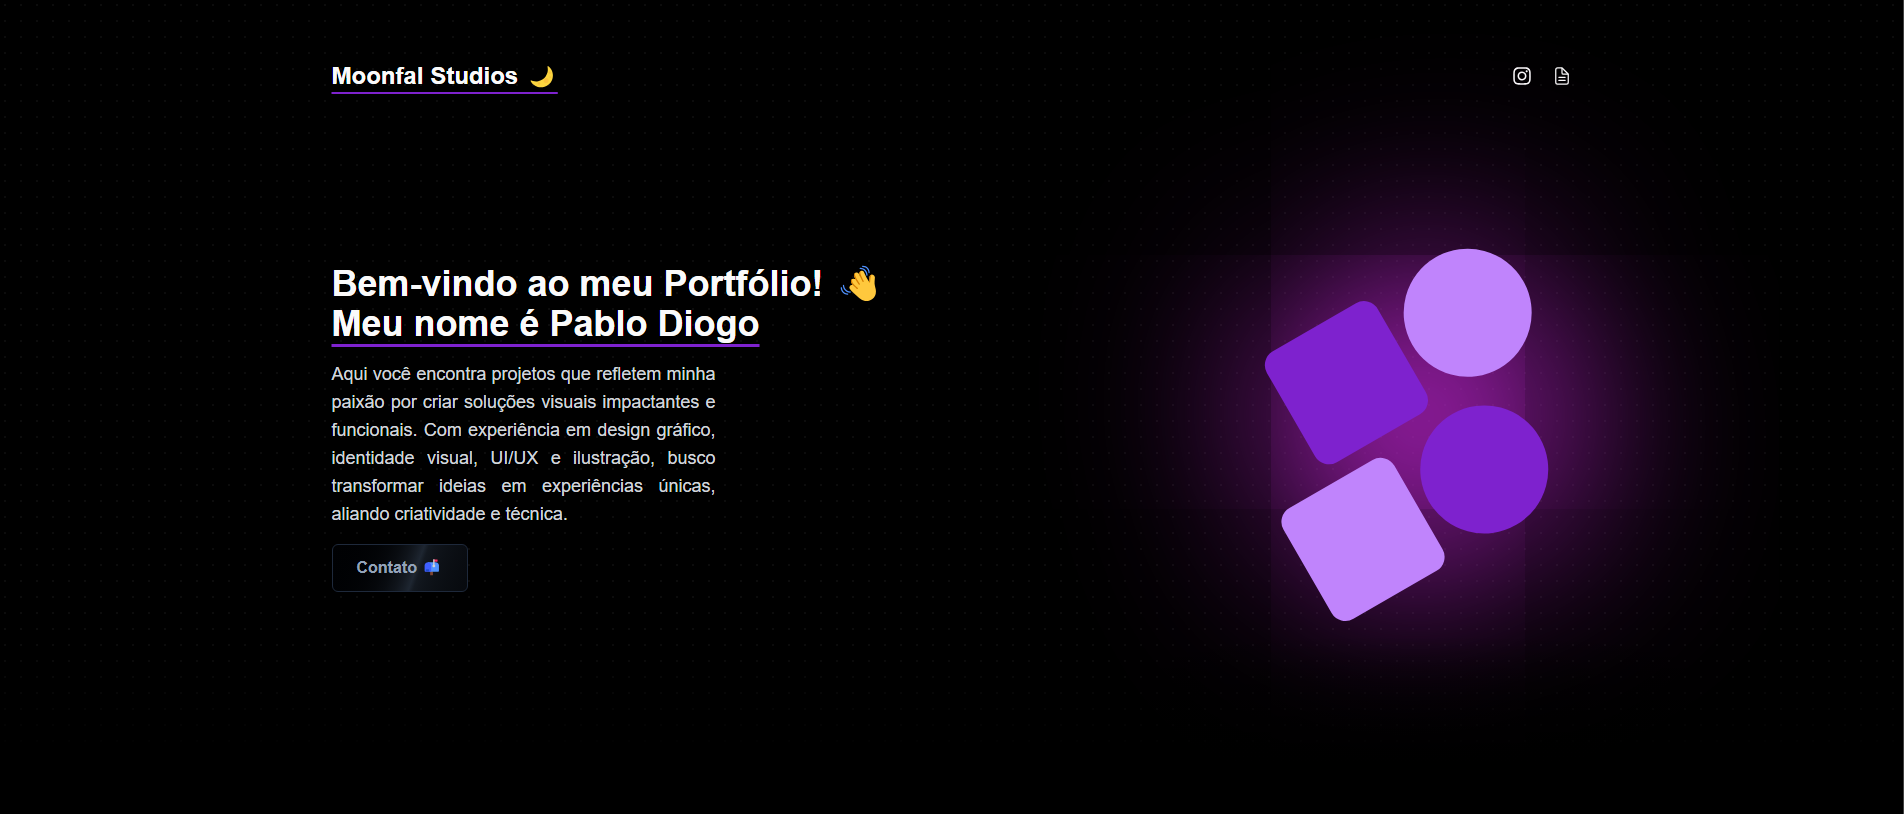
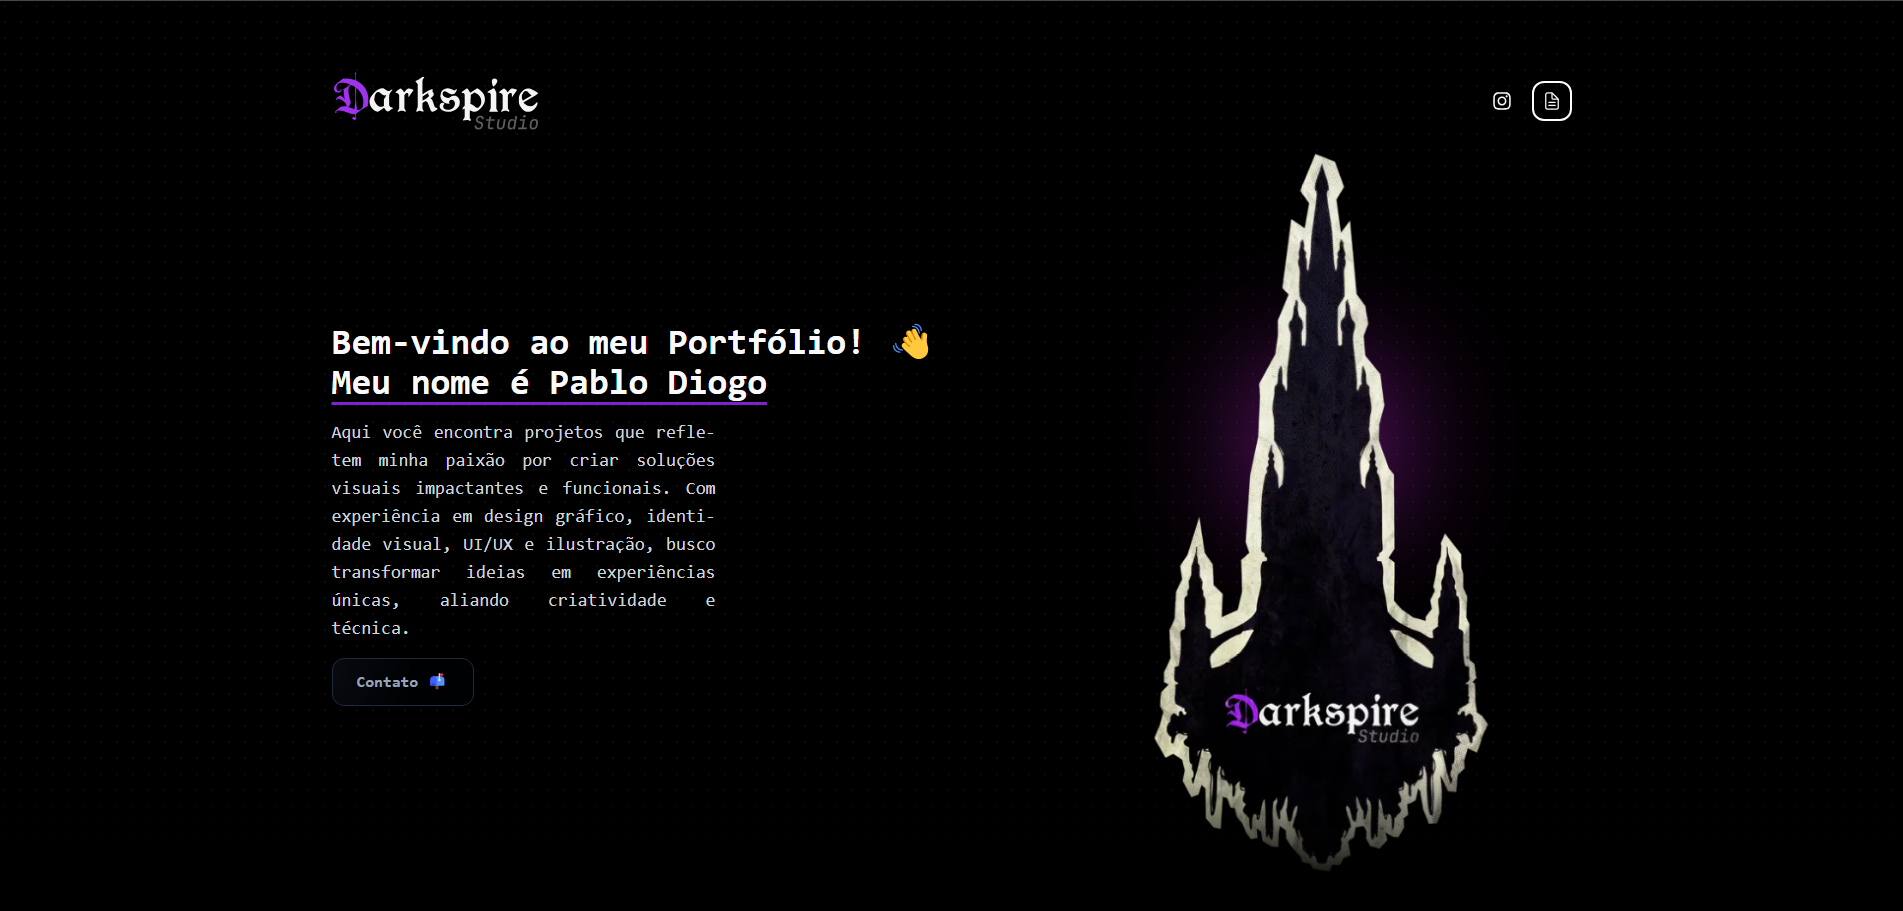
galeria

diff --git a/app/(home)/data/data.tsx b/app/(home)/data/data.tsx
@@ -34,8 +34,8 @@ export const galery = [
         type: ["Poster", "Manipulação de imagem"]
     },
     {
-        src: "https://images.pexels.com/photos/30149506/pexels-photo-30149506.jpeg?auto=compress&cs=tinysrgb&w=1260&h=750&dpr=1",
-        txt: "Soul Cinder",
+        src: "https://i.imgur.com/HEjz7h9.jpeg",
+        txt: "Tired",
         tech:[SiAdobeillustrator, SiAdobephotoshop],
         type: ["Poster"]
     },
@@ -46,17 +46,13 @@ export const galery = [
         type: ["Manipulação de imagem"]
     },
     {
-        src: "https://i.pinimg.com/736x/9b/53/0e/9b530ec068369417b9b1ccb089b880d3.jpg",
-        txt: "Citröen BX 4TC",
-        tech:[SiAdobeillustrator, SiAdobephotoshop],
-        type: ["Poster"]
-    },
-    {
-        src: "https://i.pinimg.com/736x/4e/02/70/4e0270b6067dd75a39614244bdba6893.jpg",
-        txt: "The Batman",
-        tech:[SiAdobephotoshop],
+        src: "https://i.imgur.com/OMIbSoH.jpeg",
+        txt: "Embrace the Vibe",
+        tech:[SiAdobephotoshop, SiAdobeillustrator],
         type: ["Poster", "Manipulação de imagem"]
     },
+
+
 ];
 
 //Thumbs dos Projetos

diff --git a/app/(home)/components/heroSection.tsx b/app/(home)/components/heroSection.tsx
@@ -20,7 +20,7 @@ export default function HeroSection() {
                 {"Aqui você encontra projetos que refletem minha paixão por criar soluções visuais impactantes e funcionais. Com experiência em design gráfico, identidade visual, UI/UX e ilustração, busco transformar ideias em experiências únicas, aliando criatividade e técnica."}
             </p>
 
-            <Link href={"mailto:pablocontato214@gmail.com"} className="inline-block group" >
+            <Link href={"mailto:darkspirestudio@gmail.com"} className="inline-block group" >
 
             <button
             className="inline-flex h-12 animate-shimmer items-center justify-center rounded-xl border border-slate-800 bg-[linear-gradient(110deg,#000103,45%,#1e2631,55%,#000103)] bg-[length:200%_100%] px-6 text-slate-400 transition-colors focus:outline-none focus:ring-2 focus:ring-slate-400 focus:ring-offset-2 focus:ring-offset-slate-50 font-semibold hover:text-purple-700"

diff --git a/app/layout.tsx b/app/layout.tsx
@@ -30,7 +30,7 @@ export const metadata: Metadata = {
 		description:
 			"Aqui você encontra projetos que refletem minha paixão por criar soluções visuais impactantes e funcionais. Com experiência em design gráfico, identidade visual, UI/UX e ilustração, busco transformar ideias em experiências únicas, aliando criatividade e técnica.",
 		url: "https://darkspirestudio.vercel.app/",
-		siteName: "Studios",
+		siteName: "Darkspire Studio",
 		images: "/og.png",
 		type: "website",
 	},

diff --git a/app/(home)/components/navbar.tsx b/app/(home)/components/navbar.tsx
@@ -17,11 +17,11 @@ export default function Navbar({className}:{className?:string}) {
             icon: FaInstagram,
         },
 
-        {
-            link: "https://www.instagram.com/mnfll.dsgn/",
-            label: "LinkedIn",
-            icon: FaLinkedin,
-        },
+        //{
+            //link: "https://www.instagram.com/mnfll.dsgn/",
+            //label: "LinkedIn",
+            //icon: FaLinkedin,
+        //},
     ]
 
  return (
